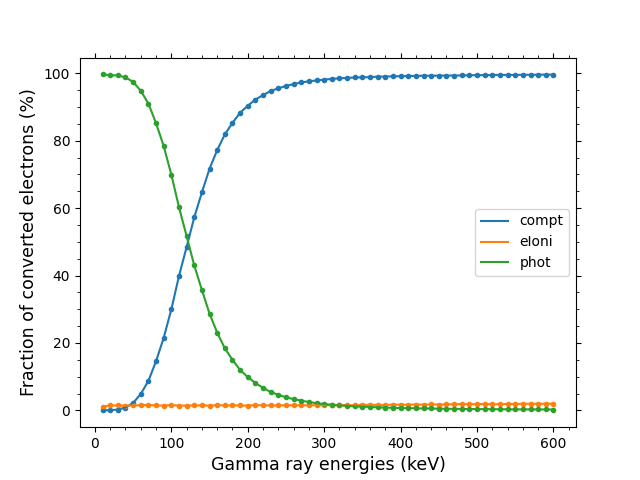
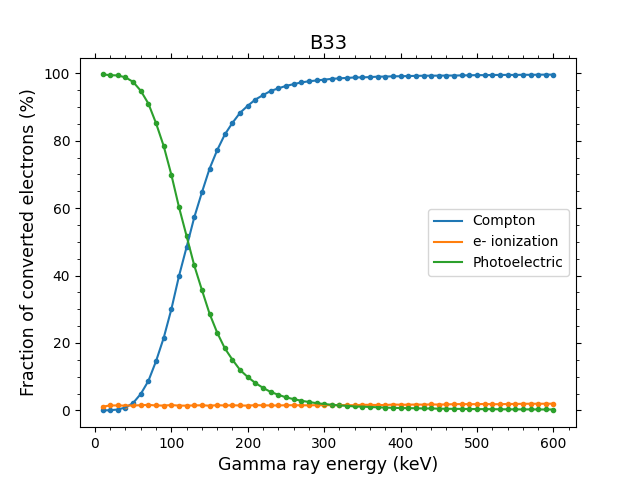
fixed up some figures, added trackid to poresd

Changed region(s): [[0.3125, 0.9375, 0.6875, 1.0], [0.6875, 0.4375, 0.875, 0.5625], [0.4688, 0.0625, 0.5625, 0.125]]

diff --git a/data/analyze_processes/plot_procs.py b/data/analyze_processes/plot_procs.py
@@ -2,17 +2,30 @@ import numpy as np
 from matplotlib import pyplot as plt
 import pickle
 
-pickle_object_path = r'data/analyze_processes/constenergy_varwallsize/ecomass_procs_bywallsize.pkl'
+pickle_object_path = r'data/analyze_processes/varenergy_constporesize/peek_procs.pkl'
 gamma_ray_energies = np.linspace(10, 600, 60, dtype=int)
 wall_thicknesses = np.linspace(5,200,40,dtype=int)
-XAXIS = 'wall'
+substrate = 'PEEK'
+XAXIS = 'energy'        # can be 'wall', 'energy'
 
 
 
+
+
+
+label_conv_dict = {
+    'overall': 'Overall',
+    'eIoni': 'e- ionization',
+    'compt': 'Compton',
+    'phot': 'Photoelectric'
+}
 
 if XAXIS == 'wall':
     label = 'Wall/pore size (um)'
     xdata = wall_thicknesses
+elif XAXIS == 'energy':
+    label = 'Gamma ray energy (keV)'
+    xdata = gamma_ray_energies
 
 with open(pickle_object_path, 'rb') as f:
 
@@ -20,11 +33,12 @@ with open(pickle_object_path, 'rb') as f:
 
     fig, ax = plt.subplots()
     for proc in proc_plot_dict:
-        ax.plot(xdata, 100*proc_plot_dict[proc], label=proc)
+        ax.plot(xdata, 100*proc_plot_dict[proc], label=label_conv_dict[proc])
         ax.scatter(xdata, 100*proc_plot_dict[proc], marker='.')
     ax.legend()
     ax.set_xlabel(label, fontdict=dict(size=12.5))
     ax.set_ylabel('Conversion efficiency (%)', fontdict=dict(size=12.5))
+    ax.set_title(substrate, fontdict=dict(size=14))
     ax.xaxis.set_ticks_position('both')
     ax.yaxis.set_ticks_position('both')
     plt.minorticks_on()
@@ -33,11 +47,12 @@ with open(pickle_object_path, 'rb') as f:
     for proc in proc_plot_dict:
         if proc == 'overall':
             continue
-        ax.plot(xdata, 100*proc_plot_dict[proc]/proc_plot_dict['overall'], label=proc)
+        ax.plot(xdata, 100*proc_plot_dict[proc]/proc_plot_dict['overall'], label=label_conv_dict[proc])
         ax.scatter(xdata, 100*proc_plot_dict[proc]/proc_plot_dict['overall'], marker='.')
     ax.legend()
     ax.set_xlabel(label, fontdict=dict(size=12.5))
     ax.set_ylabel('Fraction of converted electrons (%)', fontdict=dict(size=12.5))
+    ax.set_title(substrate, fontdict=dict(size=14))
     ax.xaxis.set_ticks_position('both')
     ax.yaxis.set_ticks_position('both')
     plt.minorticks_on()

diff --git a/data/playing_with_root_file.py b/data/playing_with_root_file.py
@@ -3,7 +3,7 @@ from matplotlib import pyplot as plt
 import awkward as ak
 import uproot
 
-root_file = r'raw_data/latest_run/Run_e510_wall50_pore_50_theta0_phi0.root'
+root_file = r'raw_data/latest_run/Run_wall50_pore_50_theta0_phi0.root'
 
 with uproot.open(root_file) as f:
 
@@ -12,22 +12,29 @@ with uproot.open(root_file) as f:
 
     pore_branches = pore_tree.arrays(library='ak')
     pore_branches['CreatorProc'] = ak.str.split_pattern(pore_branches['CreatorProc'], '\n')
-    print(pore_branches)
-    print(pore_branches['EventNumber'])
-    print(pore_branches['ID'])
-    print(pore_branches['CreatorProc'])
-    # for i, item in enumerate(pore_branches['CreatorProc']):
-    #     if len(item) > 1:
-    #         print(i)
-    
-    a = pore_branches['CreatorProc']
-    b = a == 'phot'
-    print(b[160500])
-    print(a == 'phot')
-    print(a[160500])
+
+    # print(pore_branches['TrackID'])
     # fig, ax = plt.subplots()
-    # ax.hist(ak.flatten(pore_branches['CreatorProc']))
-    # plt.show()
+    # ax.hist(ak.flatten(pore_branches['TrackID', pore_branches['CreatorProc'] != 'eIoni']), bins=10, range=(2,12), density=True)
+
+    # fig, ax = plt.subplots()
+    # new_array = pore_branches['CreatorProc', pore_branches['TrackID'] == 2]
+    # print(ak.flatten(new_array))
+    # ax.hist(ak.flatten(new_array))
+
+    # fig, ax = plt.subplots()
+    # new_array = pore_branches['CreatorProc', pore_branches['TrackID'] == 3]
+    # ax.hist(ak.flatten(new_array))
+
+    # fig, ax = plt.subplots()
+    # ax.hist(ak.flatten(pore_branches['CreatorProc', pore_branches['CreatorProc'] != 'eIoni']))
+
+    fig, ax = plt.subplots()
+    ax.hist(ak.flatten(pore_branches['EKin', pore_branches['CreatorProc'] == 'phot']), bins=np.linspace(0,600,121,dtype=int))
+
+    fig, ax = plt.subplots()
+    ax.hist(ak.flatten(pore_branches['EKin', (pore_branches['CreatorProc'] == 'compt') & (pore_branches['TrackID'] == 2)]), bins=np.linspace(0,600,121,dtype=int))
+    plt.show()
 
 
 

diff --git a/src/EventAction.cc b/src/EventAction.cc
@@ -168,6 +168,7 @@ namespace lmcp
 
         // Data for each hit element
         fPoreID = std::vector<G4int>(nPoreHits, NAN);
+        fTrackID = std::vector<G4int>(nPoreHits, NAN);
         fPoreCreatorProc = std::vector<std::string>(nPoreHits, "");
         fPoreEdep = std::vector<G4double>(nPoreHits, NAN);
         fPoreEKin = std::vector<G4double>(nPoreHits, NAN);
@@ -179,6 +180,7 @@ namespace lmcp
             auto hit = static_cast<PoreHit*>(poreHC->GetHit(i));
 
             fPoreID[i] = hit->GetCopyNo();
+            fTrackID[i] = hit->GetTrackID();
             fPoreCreatorProc[i] = hit->GetCreatorProc();
             fPoreEdep[i] = hit->GetEdep()/keV;
             fPoreEKin[i] = hit->GetEKin()/keV;

diff --git a/src/RunAction.cc b/src/RunAction.cc
@@ -84,6 +84,7 @@ namespace lmcp
     //
     analysisManager->CreateNtuple("pore", "Pore Data");
     analysisManager->CreateNtupleIColumn("EventNumber");
+    analysisManager->CreateNtupleIColumn("TrackID", fEventAction->GetTrackID());
     analysisManager->CreateNtupleIColumn("ID", fEventAction->GetPoreID());
     analysisManager->CreateNtupleSColumn("CreatorProc", fEventAction->GetPoreCreatorProc());
     analysisManager->CreateNtupleDColumn("Edep", fEventAction->GetPoreEdep());
